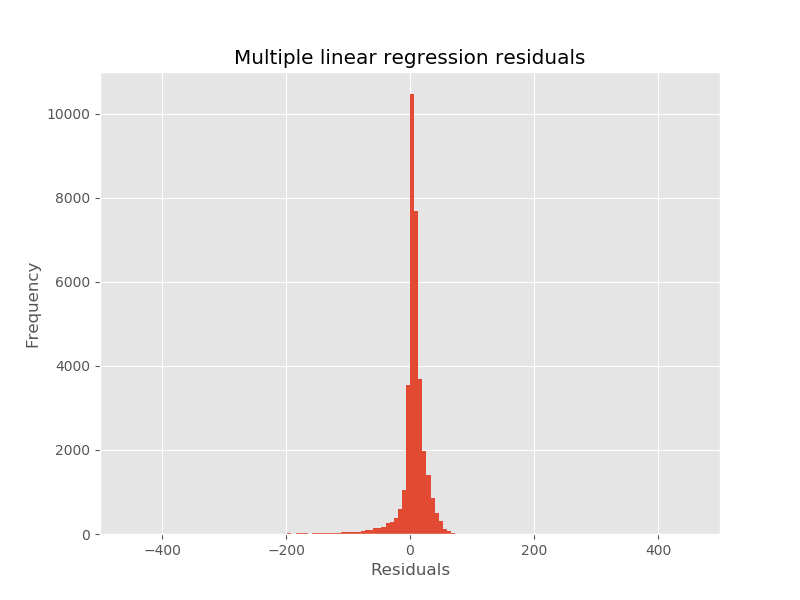
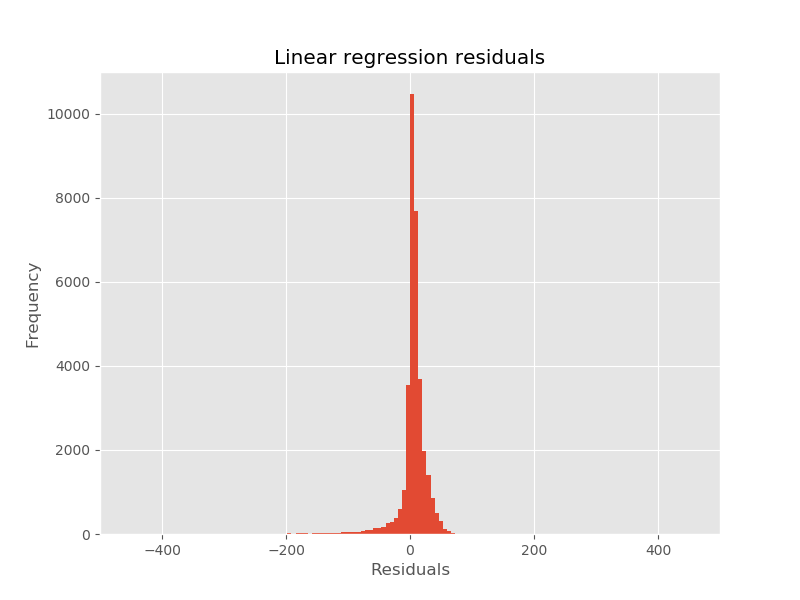
Add usage notes to regression scripts

Changed region(s): [[0.2812, 0.06, 0.75, 0.12]]

diff --git a/day5-lunch/log_regress.py b/day5-lunch/log_regress.py
@@ -6,6 +6,16 @@ Usage: ./log_regress.py <tab_file>
 <ctab_file> Filepath to .tab file with transcript IDs,
 and their associated histone modifications (by bigWig) and FPKMs
 
+This script takes a file with gene transcripts, their FPKMs, and bigWigAverageOverBed's
+predicted histone modifications over the promoter region (for as many types of histone
+modification as you like). It fits a multiple linear regression model to the data, 
+trying to use histone modifications to predict a transcript's FPKM.
+
+To make the data nicer, here we use log(FPKM + 1) instead of FPKM to fit the linear 
+regression model. This results in some strange artifacts.
+
+The script then compares the model's projected FPKM values to the actual FPKMs in the 
+.tab file, and plots the residuals in histogram format.
 """
 
 import sys
@@ -19,8 +29,9 @@ from sklearn import datasets
 # Read .tab file
 filename = pd.read_table(sys.argv[1])
 
+
 # Fit linear regression model to .tab data
-# Y: Log of FPKM values
+# Y: Log of FPKM values + 1 (to account for zeroes)
 # X: Corresponding avg signal for each of 5 histone markers
 Y = np.log(1 + filename.loc[:,"FPKM"])
 X = filename.iloc[:,2:]
@@ -31,21 +42,21 @@ model = sm.OLS(Y,X)
 results = model.fit()
 results.params
 results.tvalues
+# Print summary to output R^2, p-value, coefficients, etc
 print(results.summary())
 
 
 # Make histogram
 
 # new_y - FPKM values predicted by the model for each transcript
-# In the histogram, we want to plot the difference between the predicted FPKM values and the actual values from the .tab file (i.e. the 'residuals')
+# In the histogram, we want to plot the difference between the predicted FPKM values
+# and the actual values from the .tab file (i.e. the 'residuals')
 new_y = results.fittedvalues
 r = new_y - Y
 
 # For the purpose of aesthetic, the xlim is set smaller than this histogram's default range
-# This cuts out one small group of residuals in the -6000s or so. ALl the other residuals lie around 0
 fig, ax = plt.subplots(figsize=(8, 6))
 ax.hist(r, bins=500)
-#ax.set_xlim(-500,500)
 ax.set_ylabel("Frequency")
 ax.set_xlabel("Residuals")
 ax.set_title("Linear regression residuals")

diff --git a/day5-lunch/linear_regress.py b/day5-lunch/linear_regress.py
@@ -1,10 +1,18 @@
 #!/usr/bin/env python3
 
 """
-Usage: ./log_regress.py <tab_file>
+Usage: ./linear_regress.py <tab_file>
 
 <ctab_file> Filepath to .tab file with transcript IDs,
 and their associated histone modifications (by bigWig) and FPKMs
+
+This script takes a file with gene transcripts, their FPKMs, and bigWigAverageOverBed's
+predicted histone modifications over the promoter region (for as many types of histone
+modification as you like). It fits a multiple linear regression model to the data, 
+trying to use histone modifications to predict a transcript's FPKM.
+
+It then compares the model's projected FPKM values to the actual FPKMs in the .tab
+file, and plots the residuals in histogram format.
 
 """
 
@@ -18,6 +26,7 @@ from sklearn import datasets
 
 # Read .tab file
 filename = pd.read_table(sys.argv[1])
+
 
 # Fit linear regression model to .tab data
 # Y: FPKM values, X: Corresponding avg signal for each of 5 histone markers
@@ -37,12 +46,13 @@ print(results.summary())
 # Make histogram
 
 # new_y - FPKM values predicted by the model for each transcript
-# In the histogram, we want to plot the difference between the predicted FPKM values and the actual values from the .tab file (i.e. the 'residuals')
+# In the histogram, we want to plot the difference between the predicted FPKM values
+# and the actual values from the .tab file (i.e. the 'residuals')
 new_y = results.fittedvalues
 r = new_y - Y
 
 # For the purpose of aesthetic, the xlim is set smaller than this histogram's default range
-# This cuts out one small group of residuals in the -30000s or so. ALl the other residuals lie around 0
+# This cuts out one small group of residuals in the -6000s or so. All the other residuals lie around 0
 fig, ax = plt.subplots(figsize=(8, 6))
 ax.hist(r, bins=1000)
 ax.set_xlim(-500,500)
